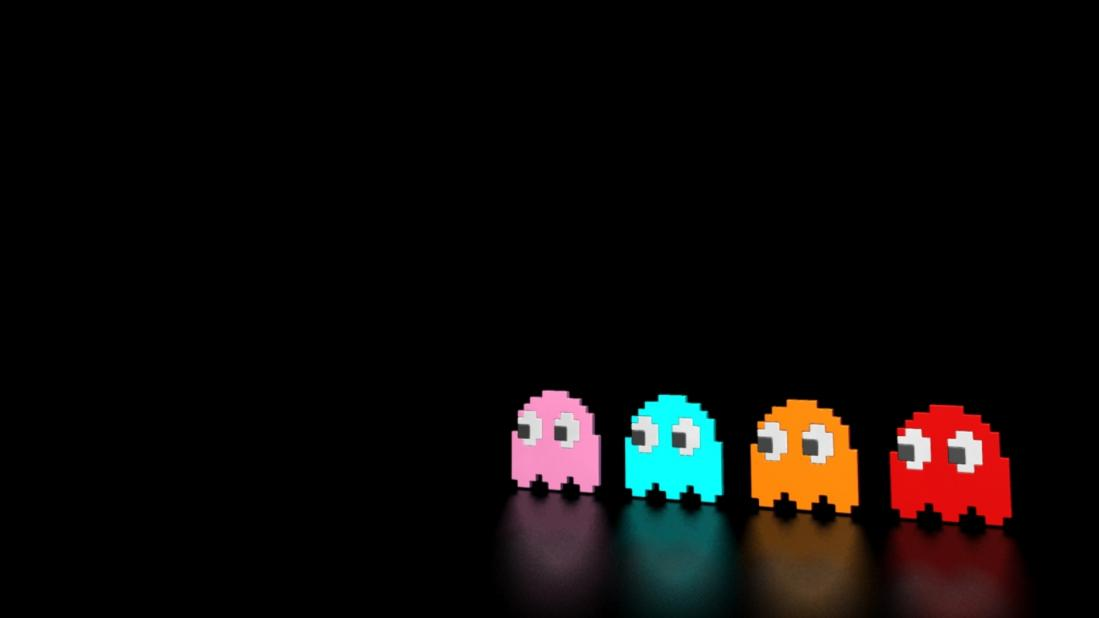
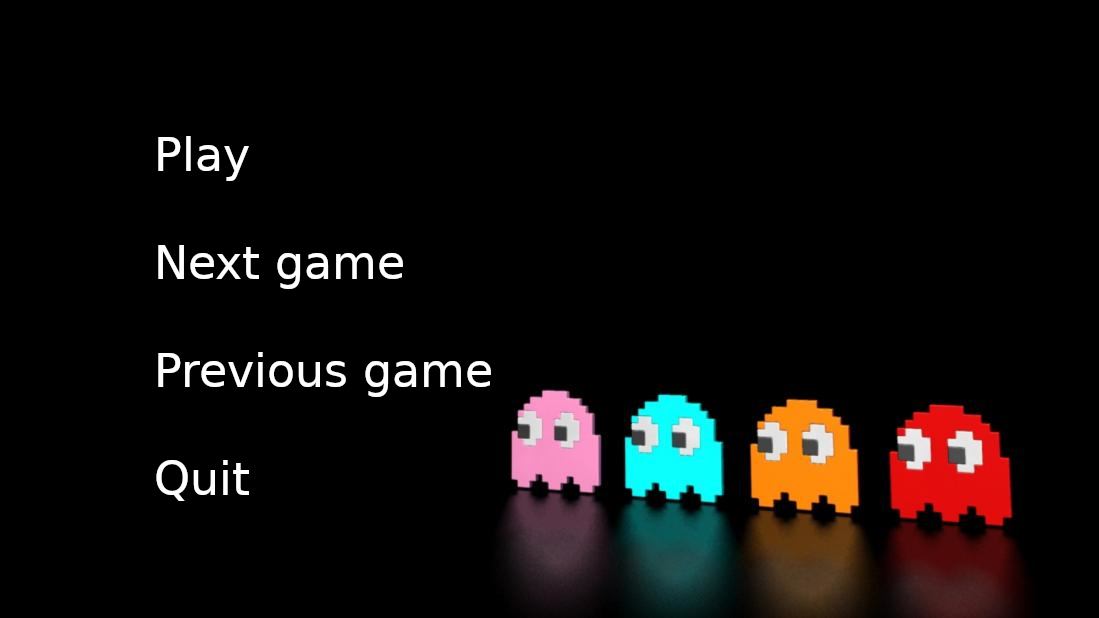
le petit asticot vert

diff --git a/lib/lib_arcade_sfml.cpp b/lib/lib_arcade_sfml.cpp
@@ -13,7 +13,11 @@
 #include <stddef.h>
 #include <stdio.h>
 #include <stdlib.h>
-#include <SFML/>
+#include <SFML/Graphics/Export.hpp>
+#include <SFML/Graphics/Drawable.hpp>
+#include <SFML/Graphics/Transformable.hpp>
+#include <SFML/Graphics/Vertex.hpp>
+#include <SFML/Graphics/Rect.hpp>
 
 class sfml : public IGraph
 {
@@ -26,10 +30,9 @@ class sfml : public IGraph
         input menu(Core &core);
         input pause();
         void display_score(int score);
-        void display_game_name(std::string name);
         std::string game_over_screen();
-        input event_loop();
-        void move_arrow();
+        input menu_event_loop();
+        input pause_event_loop();
         void display_menu();
         void display_pause();
         void end();
@@ -39,32 +42,39 @@ class sfml : public IGraph
         sf::Sprite _spritemenu;
         sf::Sprite _spritearrow;
         sf::RenderWindow _window;
-        sf::Texture _texturemenu;
-        sf::Texture _texturepause;
-        sf::Texture _texturearrow;
+        sf::Texture _texture_menu;
+        sf::Texture _texture_pause;
+        sf::Texture _texture_arrow;
+        sf::Texture _texture_wall;
+        sf::Texture _texture_floor;
+        sf::Texture _texture_apple;
+        sf::Texture _texture_snake_body;
+        sf::Texture _texture_snake_head;
+        sf::Sprite _sprite_list[20][40];
 };
 
 sfml::sfml()
 {
     _window.create(sf::VideoMode(1920, 1080), "My window");
 
-    if (!_texturemenu.loadFromFile("./lib/ressource/sfml/menu_bg.jpeg")) {
-        std::cout << "ERREUR... le fichier png du MENU MOCHE n'est pas présent dans le répertoire" << std::endl;
-        end();
-    }
-
-    if (!_texturepause.loadFromFile("./lib/ressource/sfml/menumoche.png")) {
-        std::cout << "ERREUR... le fichier png du MENU PAUSE n'est pas présent dans le répertoire" << std::endl;
-        end();
-    }
-
-    if (!_texturearrow.loadFromFile("./lib/ressource/sfml/arrow.png")) {
-        std::cout << "ERREUR... le fichier png du MENU arrow n'est pas présent dans le répertoire" << std::endl;
-        end();
-    }
-    _spritepause.setTexture(_texturepause);
-    _spritemenu.setTexture(_texturemenu);
-    _spritearrow.setTexture(_texturearrow);
+    _texture_menu.loadFromFile("./lib/ressource/sfml/menu_bg.jpeg");
+    _texture_pause.loadFromFile("./lib/ressource/sfml/menumoche.png");
+    _texture_arrow.loadFromFile("./lib/ressource/sfml/arrow.png");
+    _texture_wall.loadFromFile("./lib/ressource/sfml/wall.png");
+    _texture_floor.loadFromFile("./lib/ressource/sfml/floor.png");
+    _texture_apple.loadFromFile("./lib/ressource/sfml/apple.png");
+    _texture_snake_body.loadFromFile("./lib/ressource/sfml/snake_body.png");
+    _texture_snake_head.loadFromFile("./lib/ressource/sfml/snake_head.png");
+    _spritepause.setTexture(_texture_pause);
+    _spritemenu.setTexture(_texture_menu);
+    _spritearrow.setTexture(_texture_arrow);
+    _spritearrow.setPosition(200, 200);
+    _spritearrow.setScale(0.05, 0.05);
+    std::cout << "0";
+    for (int y = 0, a = 0; y != 20; y++)
+        for (int x = 0; x != 40; x++, a++)
+            _sprite_list[y][x].setPosition(x*15, y*15);
+    std::cout << "2";
 }
 
 sfml::~sfml()
@@ -76,23 +86,30 @@ void sfml::end()
     _window.close();
 }
 
-void sfml::move_arrow()
-{
-    sf::Vector2f position = _spritearrow.getPosition(); // = (15, 55)
-    if (sf::Sprite::setPosition(_spritearrow, (sfVector2f){100, 0});
-    
-}
-
 void sfml::display(int game_map[20][40])
 {
+    _window.clear();
+    for (int y = 0, a = 0; y != 20; y++)
+        for (int x = 0; x != 40; x++, a++)
+            switch (game_map[y][x]) {
+                case 0 : _sprite_list[y][x].setTexture(_texture_floor);
+                break;
+                case 1 : _sprite_list[y][x].setTexture(_texture_wall);
+                break;
+                case 2 : _sprite_list[y][x].setTexture(_texture_apple);
+                break;
+                case 3 : _sprite_list[y][x].setTexture(_texture_snake_head);
+                break;
+                case 4 : _sprite_list[y][x].setTexture(_texture_snake_body);
+                break;
+            }
+    for (int y = 0, a = 0; y != 20; y++)
+        for (int x = 0; x != 40; x++, a++)
+            _window.draw(_sprite_list[y][x]);
+    _window.display();
 }
 
 void sfml::display_score(int score)
-{
-
-}
-
-void sfml::display_game_name(std::string name)
 {
 
 }
@@ -104,29 +121,59 @@ std::string sfml::game_over_screen()
 
 input sfml::get_input(input current)
 {
-    return(current);
-}
-
-input sfml::event_loop()
-{
     while (_window.pollEvent(_event)) {
         if (_event.type == sf::Event::Closed || _event.key.code == sf::Keyboard::Escape)
-            end();
+            return make_end;
+        if (_event.type == sf::Event::KeyPressed &&
+            _event.key.code == sf::Keyboard::Up)
+            return up;
+        if (_event.type == sf::Event::KeyPressed &&
+            _event.key.code == sf::Keyboard::Down) 
+            return down;
+        if (_event.type == sf::Event::KeyPressed &&
+            _event.key.code == sf::Keyboard::Right) 
+            return right;
+        if (_event.type == sf::Event::KeyPressed &&
+            _event.key.code == sf::Keyboard::Left) 
+            return left;
+        if (_event.type == sf::Event::KeyPressed &&
+            _event.key.code == sf::Keyboard::P)
+            return make_pause;
+        }
+    return current;
+}
+
+input sfml::menu_event_loop()
+{
+    while (_window.pollEvent(_event)) {
+        if (_event.type == sf::Event::Closed || _event.key.code == sf::Keyboard::Escape) {
+            return make_end;
+        }
         if (_event.type == sf::Event::KeyPressed &&
             _event.key.code == sf::Keyboard::Up) {
-                if ()
+                if (_spritearrow.getPosition().y > 200)
+                    _spritearrow.move(0, -200);
             }
 
         if (_event.type == sf::Event::KeyPressed &&
             _event.key.code == sf::Keyboard::Down) {
-                if ()
+                if (_spritearrow.getPosition().y < 800)
+                    _spritearrow.move(0, 200);
             }
 
         if (_event.type == sf::Event::KeyPressed &&
             _event.key.code == sf::Keyboard::Return) {
-                if ()
+                if (_spritearrow.getPosition().y == 200)
+                    return play;
+                if (_spritearrow.getPosition().y == 400)
+                    return next_lib;
+                if (_spritearrow.getPosition().y == 600)
+                    return prev_lib;
+                if (_spritearrow.getPosition().y == 800)
+                    return make_end;
             }
     }
+    return undefinied;
 }
 
 void sfml::display_menu()
@@ -141,17 +188,63 @@ void sfml::display_menu()
 
 input sfml::menu(Core &core)
 {
-    event_loop();
+    input res = menu_event_loop();
     display_menu();
-    return(undefinied);
+    return(res);
+}
+
+input sfml::pause_event_loop()
+{
+    while (_window.pollEvent(_event)) {
+        if (_event.type == sf::Event::Closed || _event.key.code == sf::Keyboard::Escape) {
+            return make_end;
+        }
+        if (_event.type == sf::Event::KeyPressed &&
+            _event.key.code == sf::Keyboard::Up) {
+                if (_spritearrow.getPosition().y > 200)
+                    _spritearrow.move(0, -100);
+            }
+
+        if (_event.type == sf::Event::KeyPressed &&
+            _event.key.code == sf::Keyboard::Down) {
+                if (_spritearrow.getPosition().y < 700)
+                    _spritearrow.move(0, 100);
+            }
+
+        if (_event.type == sf::Event::KeyPressed &&
+            _event.key.code == sf::Keyboard::Return) {
+                if (_spritearrow.getPosition().y == 200)
+                    return play;
+                if (_spritearrow.getPosition().y == 300)
+                    return restart;
+                if (_spritearrow.getPosition().y == 400)
+                    return back_to_menu;
+                if (_spritearrow.getPosition().y == 500)
+                    return next_lib;
+                if (_spritearrow.getPosition().y == 600)
+                    return prev_lib;
+                if (_spritearrow.getPosition().y == 700)
+                    return make_end;
+            }
+    }
+    return undefinied;
+}
+
+void sfml::display_pause()
+{
+    _window.clear();
+
+    _window.draw(_spritepause);
+    _window.draw(_spritearrow);
+
+    _window.display();
 }
 
 input sfml::pause()
 {
-    _window.clear();
-    _window.draw(_spritepause);
-    _window.display();
-    return(undefinied);
+    input res = pause_event_loop();
+    display_pause();
+    return(res);
 }
 
 extern "C" IGraph *create() {

diff --git a/lib/lib_arcade_ncurse.cpp b/lib/lib_arcade_ncurse.cpp
@@ -22,7 +22,6 @@ class ncurse : public IGraph
         input menu(Core &core);
         input pause();
         void display_score(int score);
-        void display_game_name(std::string name);
         std::string game_over_screen();
         void end();
         WINDOW *win;
@@ -55,11 +54,6 @@ void ncurse::end()
 void ncurse::display_score(int score)
 {
     mvprintw(5, 90, "SCORE : %d", score);
-
-}
-
-void ncurse::display_game_name(std::string name)
-{
 
 }
 

diff --git a/src/Core.hpp b/src/Core.hpp
@@ -36,7 +36,6 @@ class IGraph {
 
         virtual void display(int game_map[20][40]) = 0;
         virtual void display_score(int score) = 0;
-        virtual void display_game_name(std::string name) = 0;
         virtual std::string game_over_screen() = 0;
         virtual input get_input(input current) = 0;
         virtual input menu(Core &core) = 0;
